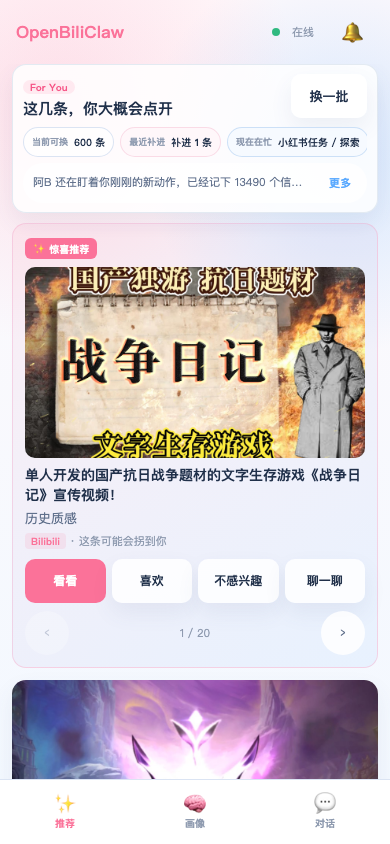
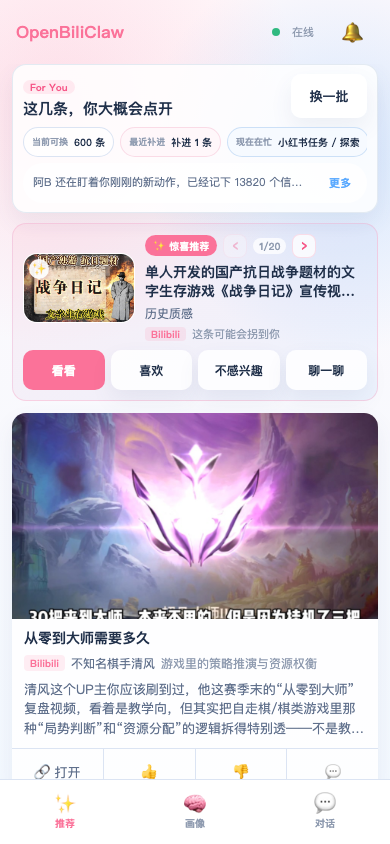
fix: compact mobile delight card

diff --git a/src/openbiliclaw/web/css/app.css b/src/openbiliclaw/web/css/app.css
@@ -405,39 +405,175 @@ body {
   position: relative;
 }
 
+.delight-compact {
+  display: grid;
+  grid-template-columns: auto minmax(0, 1fr);
+  gap: 10px;
+  align-items: center;
+}
+
+.delight-thumb {
+  width: 112px;
+  position: relative;
+  overflow: hidden;
+  border-radius: 14px;
+  aspect-ratio: 16 / 10;
+  background:
+    linear-gradient(180deg, rgba(255, 255, 255, 0.96), rgba(255, 248, 252, 0.94)),
+    linear-gradient(145deg, rgba(251, 114, 153, 0.18), rgba(90, 169, 255, 0.14));
+  border: 1px solid rgba(255, 255, 255, 0.92);
+  box-shadow: inset 0 1px 0 rgba(255, 255, 255, 0.74);
+  display: flex;
+  align-items: center;
+  justify-content: center;
+  color: var(--brand-strong);
+  font-size: 24px;
+}
+
+.delight-thumb::before {
+  content: "✨";
+  position: absolute;
+  top: 5px;
+  left: 5px;
+  width: 20px;
+  height: 20px;
+  border-radius: 999px;
+  background: rgba(255, 255, 255, 0.92);
+  color: var(--brand-strong);
+  font-size: 12px;
+  line-height: 20px;
+  text-align: center;
+  box-shadow: 0 2px 6px rgba(251, 114, 153, 0.24);
+  z-index: 1;
+  pointer-events: none;
+}
+
+.delight-thumb::after {
+  content: "";
+  position: absolute;
+  inset: auto 0 0;
+  height: 34%;
+  background: linear-gradient(180deg, transparent, rgba(32, 48, 74, 0.16));
+  pointer-events: none;
+}
+
+.delight-thumb.is-fallback::after {
+  display: none;
+}
+
+.delight-thumb img {
+  width: 100%;
+  height: 100%;
+  object-fit: cover;
+  display: block;
+}
+
+.delight-copy {
+  min-width: 0;
+  display: flex;
+  flex-direction: column;
+  justify-content: center;
+  gap: 5px;
+}
+
+.delight-kicker-line {
+  display: flex;
+  align-items: center;
+  gap: 6px;
+  min-width: 0;
+  flex-wrap: wrap;
+}
+
 .delight-tag {
-  display: inline-block;
+  display: inline-flex;
+  align-items: center;
+  flex: 0 0 auto;
   background: var(--brand);
   color: #fff;
   font-size: 10px;
   font-weight: 700;
   padding: 2px 8px;
-  border-radius: 6px;
-  margin-bottom: 8px;
+  border-radius: 999px;
+}
+
+.delight-inline-counter {
+  flex: 0 0 auto;
+  padding: 1px 6px;
+  border-radius: 999px;
+  background: rgba(255, 255, 255, 0.76);
+  color: var(--text-muted);
+  font-size: 10px;
+  font-weight: 700;
+}
+
+.delight-inline-nav {
+  flex: 0 0 auto;
+  width: 24px;
+  height: 24px;
+  border: 1px solid rgba(251, 114, 153, 0.22);
+  border-radius: 8px;
+  background: rgba(255, 255, 255, 0.78);
+  color: var(--brand-strong);
+  font-size: 16px;
+  font-weight: 800;
+  line-height: 1;
+  display: inline-flex;
+  align-items: center;
+  justify-content: center;
+  cursor: pointer;
+}
+
+.delight-inline-nav:disabled {
+  opacity: 0.34;
+  cursor: default;
 }
 
 .delight-title {
   font-size: 14px;
-  font-weight: 600;
-  line-height: 1.4;
+  font-weight: 800;
+  line-height: 1.35;
+  display: -webkit-box;
+  -webkit-line-clamp: 2;
+  -webkit-box-orient: vertical;
+  overflow: hidden;
 }
 
 .delight-hook {
-  font-size: 13px;
+  font-size: 12px;
   color: var(--text-secondary);
-  margin-top: 4px;
-  line-height: 1.5;
+  line-height: 1.4;
+  display: -webkit-box;
+  -webkit-line-clamp: 2;
+  -webkit-box-orient: vertical;
+  overflow: hidden;
+}
+
+.delight-meta {
+  display: flex;
+  align-items: center;
+  gap: 6px;
+  min-width: 0;
+  color: var(--text-muted);
+  font-size: 11px;
+  line-height: 1.2;
+}
+
+.delight-meta > span:last-child {
+  min-width: 0;
+  overflow: hidden;
+  text-overflow: ellipsis;
+  white-space: nowrap;
 }
 
 .delight-nav {
   display: flex;
   align-items: center;
   justify-content: space-between;
-  margin-top: 8px;
+  margin-top: 6px;
 }
 
 .delight-nav-btn {
-  width: 44px; height: 44px;
+  width: 36px; height: 36px;
   border-radius: 50%;
   background: var(--surface);
   display: flex; align-items: center; justify-content: center;
@@ -452,6 +588,20 @@ body {
 .delight-counter {
   font-size: 11px;
   color: var(--text-muted);
+}
+
+@media (max-width: 360px) {
+  .delight-compact {
+    gap: 8px;
+  }
+
+  .delight-thumb {
+    width: 96px;
+  }
+
+  .delight-hook {
+    -webkit-line-clamp: 1;
+  }
 }
 
 /* ── Action Buttons ───────────────────────────────────────── */
@@ -1039,14 +1189,20 @@ body {
   background: linear-gradient(135deg, rgba(251,114,153,0.08), rgba(90,169,255,0.08));
   border: 1px solid var(--line-strong);
   border-radius: 14px;
-  padding: 12px;
+  padding: 10px;
   margin-bottom: 12px;
 }
 
 .delight-actions {
   display: flex;
   gap: 6px;
-  margin-top: 10px;
+  margin-top: 9px;
+}
+
+.delight-actions .btn {
+  min-height: 40px;
+  padding: 8px 4px;
+  font-size: 12px;
 }
 
 .delight-result-state {

diff --git a/src/openbiliclaw/web/js/views/recommend.js b/src/openbiliclaw/web/js/views/recommend.js
@@ -204,17 +204,28 @@ function renderDelightTray() {
 
   const cover = getCoverImageAttrs(d.cover_url);
   const coverHtml = cover
-    ? `<img class="card-cover" src="${esc(cover.src)}" alt="" loading="lazy" referrerpolicy="${cover.referrerPolicy}" onerror="this.remove()" style="border-radius:10px;margin-bottom:8px">`
-    : "";
+    ? `<span class="delight-thumb"><img src="${esc(cover.src)}" alt="" loading="lazy" referrerpolicy="${cover.referrerPolicy}" onerror="this.parentElement.classList.add('is-fallback');this.remove()"></span>`
+    : `<span class="delight-thumb is-fallback">\u2728</span>`;
 
   tray.innerHTML = `
-    <span class="delight-tag">\u2728 \u60CA\u559C\u63A8\u8350</span>
-    ${coverHtml}
-    <div class="delight-title">${esc(d.title)}</div>
-    <div class="delight-hook">${esc(d.delight_hook || d.delight_reason)}</div>
-    <div style="font-size:11px;color:var(--text-muted);margin-top:4px">
-      <span class="card-source" data-source="${d.source_platform}">${esc(getSourceLabel(d.source_platform))}</span>
-      ${uiState.score_label ? ` · ${esc(uiState.score_label)}` : ""}
+    <div class="delight-compact">
+      ${coverHtml}
+      <div class="delight-copy">
+        <div class="delight-kicker-line">
+          <span class="delight-tag">\u2728 \u60CA\u559C\u63A8\u8350</span>
+          ${delights.length > 1 ? `
+            <button class="delight-inline-nav" id="delight-prev" type="button" ${idx <= 0 ? "disabled" : ""}>\u2039</button>
+            <span class="delight-inline-counter">${idx + 1}/${delights.length}</span>
+            <button class="delight-inline-nav" id="delight-next" type="button" ${idx >= delights.length - 1 ? "disabled" : ""}>\u203A</button>
+          ` : ""}
+        </div>
+        <div class="delight-title">${esc(d.title)}</div>
+        <div class="delight-hook">${esc(d.delight_hook || d.delight_reason)}</div>
+        <div class="delight-meta">
+          <span class="card-source" data-source="${d.source_platform}">${esc(getSourceLabel(d.source_platform))}</span>
+          ${uiState.score_label ? `<span>${esc(uiState.score_label)}</span>` : ""}
+        </div>
+      </div>
     </div>`;
 
   if (uiState.handled) {
@@ -232,7 +243,6 @@ function renderDelightTray() {
     for (const b of btns) {
       const btn = document.createElement("button");
       btn.className = `btn ${b.action === "view" ? "btn-brand" : "btn-outline"}`;
-      btn.style.cssText = "flex:1;font-size:12px;padding:8px 4px;min-height:44px";
       btn.textContent = b.label;
       btn.addEventListener("click", () => handleDelightAction(d, b.action));
       actions.appendChild(btn);
@@ -240,21 +250,13 @@ function renderDelightTray() {
     tray.appendChild(actions);
   }
 
-  // Nav
   if (delights.length > 1) {
-    const nav = document.createElement("div");
-    nav.className = "delight-nav";
-    nav.innerHTML = `
-      <button class="delight-nav-btn" id="delight-prev" ${idx <= 0 ? "disabled" : ""}>\u2039</button>
-      <span class="delight-counter">${idx + 1} / ${delights.length}</span>
-      <button class="delight-nav-btn" id="delight-next" ${idx >= delights.length - 1 ? "disabled" : ""}>\u203A</button>`;
-    nav.querySelector("#delight-prev")?.addEventListener("click", () => {
+    tray.querySelector("#delight-prev")?.addEventListener("click", () => {
       if (idx > 0) { patchState({ delightCurrentIndex: idx - 1 }); render(); }
     });
-    nav.querySelector("#delight-next")?.addEventListener("click", () => {
+    tray.querySelector("#delight-next")?.addEventListener("click", () => {
       if (idx < delights.length - 1) { patchState({ delightCurrentIndex: idx + 1 }); render(); }
     });
-    tray.appendChild(nav);
   }
 
   $root.appendChild(tray);

diff --git a/README.md b/README.md
@@ -97,7 +97,8 @@
     <td align="center" width="33%">
       <img src="docs/images/mobile-recommend.png" width="210" /><br/>
       <b>手机推荐页</b><br/>
-      <sub>换一批、加载更多、喜欢 / 不感兴趣、聊一聊</sub>
+      <sub>换一批 · 加载更多</sub><br/>
+      <sub>喜欢 / 不感兴趣 / 聊一聊</sub>
     </td>
     <td align="center" width="33%">
       <img src="docs/images/mobile-profile.png" width="210" /><br/>

diff --git a/README_EN.md b/README_EN.md
@@ -64,7 +64,8 @@ All data lives in a single SQLite file on your disk. LLM calls use your own API 
     <td align="center" width="33%">
       <img src="docs/images/mobile-recommend.png" width="210" /><br/>
       <b>Recommendations</b><br/>
-      <sub>Reshuffle, load more, like / not interested, and chat</sub>
+      <sub>Reshuffle · load more</sub><br/>
+      <sub>Like / not interested / chat</sub>
     </td>
     <td align="center" width="33%">
       <img src="docs/images/mobile-profile.png" width="210" /><br/>

diff --git a/docs/changelog.md b/docs/changelog.md
@@ -14,6 +14,7 @@
 - 移动 Web 推荐页的惊喜推荐动作对齐浏览器插件：按钮改为「看看 / 喜欢 / 不感兴趣 / 聊一聊」，移除仅移动端存在的「稍后」，并把「喜欢」写入 `/api/delight/respond` 的 `like` 反馈。
 - 移动 Web 推荐页头部对齐插件：新增 `For You / 这几条，你大概会点开` 紧凑 header，把「换一批」放回首屏主操作位，池状态三枚 chip 改为「当前可换 / 最近补进 / 现在在忙」，活动状态降级为 header 内辅助行，「加载更多」移动到推荐列表底部。
 - 移动 Web 推荐页头部再次压缩移动端状态区：三枚池状态从大卡片改成横向轻量 pill，活动摘要改成单行；`xhs-extension-*`、`dy-plugin-*`、`yt-*` 等内部来源名会在移动端显示为用户可读的中文短标签。README 移动端预览说明同步使用「不感兴趣」文案。
+- 移动 Web 惊喜推荐改为接近插件的 compact banner：封面从全宽大图收敛为左侧小缩略图，右侧展示标签、标题、理由和来源，翻页控件并入标签行，减少首屏占用并保留「看看 / 喜欢 / 不感兴趣 / 聊一聊」动作。
 - 移动 Web 画像页补齐与插件一致的画像细节：MBTI 显示可信度，使用场景显示“模式”，内容口味把 `long/slow` 等 raw 值本地化为中文标签，认知更新卡片保留后端 `context_line` 与 `source_label`。
 - 移动 Web 对话页对齐插件主聊天会话：读取和提交都使用 `session=popup&scope=chat`，聊天回复完成后会刷新画像和活动流；消息 overlay 内的兴趣探测动作改为「喜欢 / 不喜欢 / 多聊聊」，惊喜推荐动作补齐「喜欢」，聊天输入框固定在底部并以两行高度起步，保留更多历史上下文可视空间。
 - 新增移动 Web 原生重设计 spec，明确 `/m/` 与浏览器插件在推荐、画像、对话、消息和 delight 工作流上的功能对齐范围，以及手机端独立信息架构。

diff --git a/docs/mobile-web-spec.md b/docs/mobile-web-spec.md
@@ -171,6 +171,7 @@ if web_dir.is_dir():
 移动端会在 `view-models.js` 中做最小字段适配：
 - 推荐池状态读取 `/api/runtime-status` 的 `pool_available_count`、`last_replenished_count`、`recent_pool_topics`，再映射成推荐页三枚 chip 使用的 `pool_size`、`recent_replenish`、`current_topic`。
 - 推荐页头部用 `getMobileRecommendationHeaderState()` 生成插件语义一致的标题、首屏「换一批」、三枚池状态 chip 和活动辅助行；移动端把池状态压成横向轻量 pill，并把 `xhs-extension-*` / `dy-plugin-*` / `yt-*` 等内部来源名显示为用户可读短标签；「加载更多」保留为列表底部显式续页入口。
+- 惊喜推荐沿用插件 compact banner 思路：左侧小缩略图、右侧标签 / 标题 / 理由 / 来源，翻页控件并入标签行，动作区仍保持「看看 / 喜欢 / 不感兴趣 / 聊一聊」。
 - MBTI 维度兼容后端对象形态（如 `EI: { pole: "I", strength: 0.8 }`）和旧数组形态，统一映射为 `{ left, right, score }` 后再渲染。
 - MBTI 会保留后端 `confidence` 显示为“可信度”；内容口味将 `long/slow` 等 raw 枚举映射为“长视频 / 慢节奏”等中文标签；使用场景会显示 `session_type` 为“模式”。
 - 认知更新卡片会保留后端 `context_line` 与 `source_label`，即使前端已做过一次 normalize 后再次渲染，也不回退成泛化上下文。